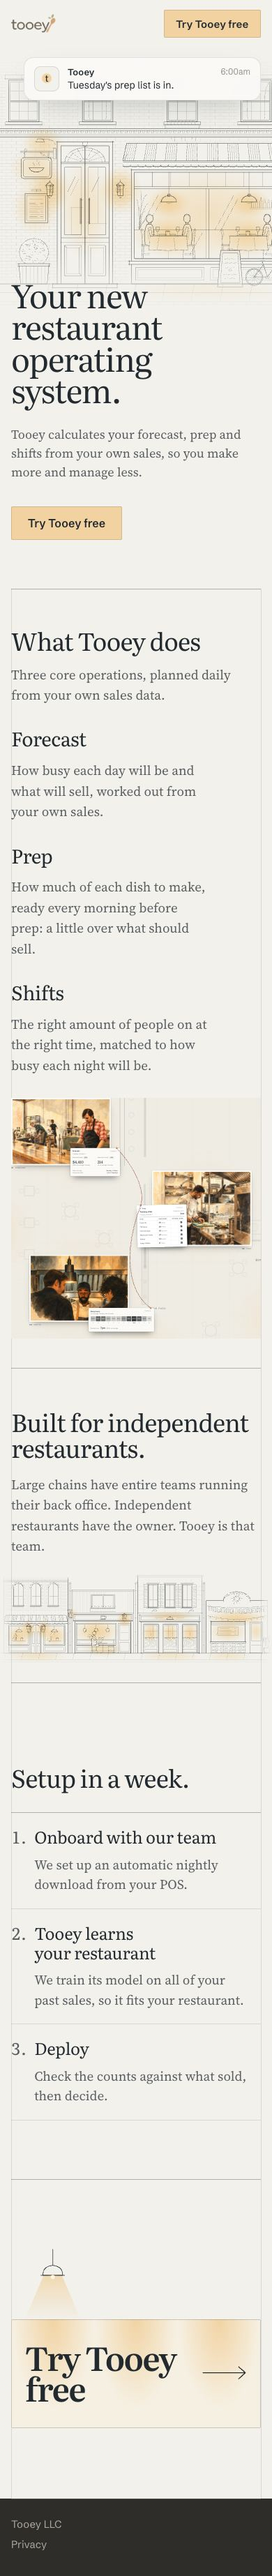
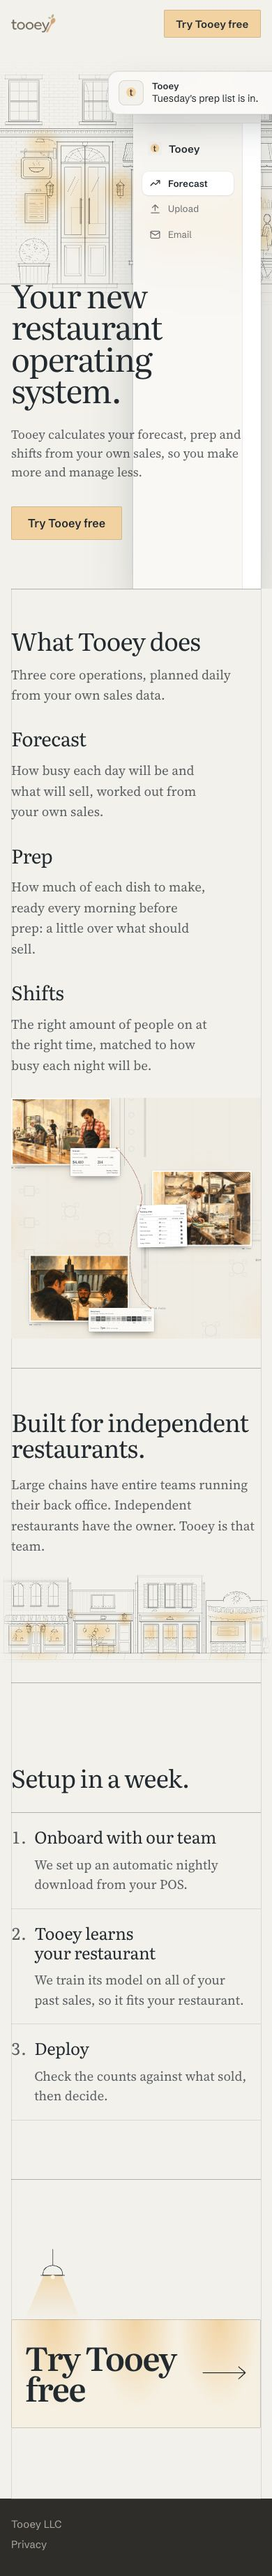
Gallery: only 41 onward, newest first in one grid, desktop only; rounds seventeen to nineteen labelled; 49 reshot

Changed region(s): [[0.4, 0.0311, 1.0, 0.218], [0.2769, 0.0311, 0.3385, 0.0623]]

diff --git a/explorations/index.html b/explorations/index.html
@@ -66,11 +66,6 @@ button { font: inherit; color: inherit; }
 }
 .btn:hover { background: var(--hover); }
 .btn[aria-disabled="true"] { opacity: .4; pointer-events: none; }
-.seg { display: inline-flex; border: 1px solid var(--line); border-radius: 8px; background: var(--panel); padding: 2px; }
-.seg button {
-  border: 0; background: none; height: 26px; padding: 0 10px; border-radius: 6px; cursor: pointer; font-size: 13px; color: var(--muted);
-}
-.seg button[aria-pressed="true"] { background: var(--ink); color: var(--bg); }
 
 /* ---------- overview ---------- */
 .overview { max-width: 1280px; margin: 0 auto; padding: 48px 20px 80px; }
@@ -79,7 +74,7 @@ button { font: inherit; color: inherit; }
 .intro p { margin: 0; max-width: 62ch; color: var(--muted); }
 .intro p + p { margin-top: 8px; }
 .intro code { font: 13px ui-monospace, SFMono-Regular, Menlo, monospace; background: var(--hover); padding: 1px 5px; border-radius: 4px; color: var(--ink); }
-.grid { list-style: none; margin: 0; padding: 0; display: grid; grid-template-columns: repeat(auto-fill, minmax(360px, 1fr)); gap: 28px 24px; }
+.grid { list-style: none; margin: 0; padding: 0; display: grid; grid-template-columns: repeat(auto-fill, minmax(360px, 1fr)); gap: 40px 28px; }
 .card { display: flex; flex-direction: column; min-width: 0; }
 .thumb {
   position: relative; display: block; border-radius: 12px; overflow: hidden;
@@ -88,24 +83,12 @@ button { font: inherit; color: inherit; }
 }
 .thumb img { display: block; width: 100%; height: 100%; object-fit: cover; object-position: top center; transition: transform .4s ease; }
 .thumb:hover img { transform: scale(1.015); }
-.thumb .phone {
-  position: absolute; right: 14px; bottom: -14%; width: 21%;
-  aspect-ratio: 390 / 844; border-radius: 10px; overflow: hidden;
-  border: 3px solid #111; background: #111; box-shadow: 0 8px 24px rgba(0,0,0,.25);
-}
-.thumb .phone img { object-fit: cover; }
-[data-mode="phone"] .grid .thumb { aspect-ratio: 16 / 10; display: flex; justify-content: center; align-items: flex-start; padding-top: 18px; }
-[data-mode="phone"] .grid .thumb > img { display: none; }
-[data-mode="phone"] .grid .thumb .phone { position: static; width: 44%; height: auto; }
 .meta { padding: 14px 2px 0; }
-.round { margin: 0 0 48px; }
-.round > h2 { font-size: 20px; font-weight: 600; letter-spacing: -0.01em; margin: 0 0 4px; }
-.round > p { margin: 0 0 20px; color: var(--muted); max-width: 70ch; }
 .meta h2 { font-size: 17px; margin: 0; font-weight: 600; letter-spacing: -0.01em; display: flex; gap: 8px; align-items: baseline; }
 .meta p { margin: 4px 0 0; color: var(--muted); font-size: 14px; }
 .meta .tags { font-size: 13px; color: var(--faint); }
+.meta .eyebrow { margin: 0 0 4px; font-size: 12px; font-weight: 600; letter-spacing: .04em; text-transform: uppercase; color: var(--faint); }
 .meta .row { display: flex; gap: 8px; margin-top: 12px; flex-wrap: wrap; }
-.card.original .thumb { box-shadow: none; border-style: dashed; }
 
 /* ---------- detail ---------- */
 .detail { display: grid; grid-template-columns: minmax(0, 1fr) 380px; height: calc(100vh - 56px); height: calc(100dvh - 56px); }
@@ -115,7 +98,6 @@ button { font: inherit; color: inherit; }
 .stage { position: relative; flex: 1; min-height: 0; background: var(--stage); overflow: hidden; display: flex; align-items: flex-start; justify-content: center; gap: 24px; padding: 20px; }
 .frame { position: relative; flex: none; background: #fff; border-radius: 10px; overflow: hidden; box-shadow: var(--shadow); border: 1px solid var(--line); }
 .frame iframe { border: 0; display: block; transform-origin: 0 0; background: #fff; }
-.frame.phone { border-radius: 28px; border: 8px solid #111; }
 .frame .label { position: absolute; left: 0; right: 0; bottom: 100%; }
 .info { min-height: 0; overflow-y: auto; padding: 24px 24px 48px; background: var(--panel); }
 .info h3 { font-size: 12px; text-transform: uppercase; letter-spacing: .06em; color: var(--faint); margin: 26px 0 8px; font-weight: 600; }
@@ -163,30 +145,20 @@ button { font: inherit; color: inherit; }
   <div class="intro">
     <div>
       <h1>Directions for the Tooey site</h1>
-      <p>Forty-three explorations in thirteen rounds, newest first. Each was built by its own agent. The current site comes first, for reference.</p>
-    </div>
-    <div class="seg" role="group" aria-label="Thumbnails">
-      <button type="button" data-thumb="desktop" aria-pressed="true">Desktop</button>
-      <button type="button" data-thumb="phone" aria-pressed="false">Phone</button>
+      <p>Explorations 41 to 49, one per round, newest first. Each round builds on the one before. Reviewed on desktop.</p>
     </div>
   </div>
-  <div id="grid" data-mode="desktop"></div>
+  <div id="grid"></div>
 </main>
 
 <main class="detail" id="detail" hidden>
   <div class="stage-wrap">
     <div class="toolbar">
       <h2 id="dTitle"></h2>
-      <div class="seg" role="group" aria-label="Preview size">
-        <button type="button" data-view="both" aria-pressed="true">Both</button>
-        <button type="button" data-view="desktop" aria-pressed="false">Desktop</button>
-        <button type="button" data-view="phone" aria-pressed="false">Phone</button>
-      </div>
       <a class="btn" id="dOpen" target="_blank" rel="noopener">Open site ↗</a>
     </div>
     <div class="stage" id="stage">
       <div class="frame desktop" id="fDesk"><iframe id="iDesk" title="Desktop preview" width="1440" height="900" loading="lazy"></iframe></div>
-      <div class="frame phone" id="fPhone"><iframe id="iPhone" title="Phone preview" width="390" height="844" loading="lazy"></iframe></div>
     </div>
   </div>
   <aside class="info" id="info" aria-live="polite"></aside>
@@ -195,25 +167,24 @@ button { font: inherit; color: inherit; }
 <script src="_gallery/data.js"></script>
 <script>
 (function () {
-  var sites = window.EXPLORATIONS || [];
+  // 41 onward, newest first; the arrows follow the same order
+  var sites = (window.EXPLORATIONS || []).filter(function (s) { return +s.num > 40; }).reverse();
   var grid = document.getElementById('grid');
   var overview = document.getElementById('overview');
   var detail = document.getElementById('detail');
   var pager = document.getElementById('pager');
   var allLink = document.getElementById('allLink');
-  var view = 'both';
-  try { view = localStorage.getItem('tooey-gallery-view') || 'both'; } catch (e) {}
 
   function esc(s) { return String(s).replace(/[&<>"]/g, function (c) { return { '&': '&amp;', '<': '&lt;', '>': '&gt;', '"': '&quot;' }[c]; }); }
   function shot(id, kind) { return '_gallery/shots/' + id + '-' + kind + '.jpg'; }
 
-  function card(s) {
-    return '<li class="card' + (s.id === '00-original' ? ' original' : '') + '">' +
+  function card(s, round, roundText) {
+    return '<li class="card">' +
       '<a class="thumb" href="#' + s.id + '" aria-label="Review ' + esc(s.name) + '">' +
         '<img src="' + shot(s.id, 'desktop') + '" alt="" loading="lazy">' +
-        '<span class="phone"><img src="' + shot(s.id, 'phone') + '" alt="" loading="lazy"></span>' +
       '</a>' +
       '<div class="meta">' +
+        (round ? '<p class="eyebrow" title="' + esc(roundText) + '">Round ' + esc(s.round) + ' \u00b7 ' + esc(round) + '</p>' : '') +
         '<h2><span class="num">' + esc(s.num) + '</span>' + esc(s.name) + '</h2>' +
         '<p>' + esc(s.line) + '</p>' +
         (s.motion ? '<p class="tags">' + esc(s.motion) + (s.words ? ' \u00b7 ' + s.words + ' words' : '') + '</p>' : '') +
@@ -222,36 +193,23 @@ button { font: inherit; color: inherit; }
       '</div></li>';
   }
   var ROUNDS = [
-    { n: 0, title: 'Today', text: '' },
+    { n: 19, title: 'Round nineteen: drawn, over a floor plan', text: '48 drawn instead of photographed, over the restaurant\'s floor plan, the words on glass, and the console window in the hero.' },
+    { n: 18, title: 'Round eighteen: one board, one thread', text: 'Three scenes on one board, joined by a thread the camera follows from Forecast to Prep to Shifts.' },
+    { n: 17, title: 'Round seventeen: real photographs', text: 'What Tooey does as one night in five photographs, each carrying a card from the real console.' },
     { n: 16, title: 'Round sixteen: the product is the picture', text: '44 with the same words, pictured with Tooey\'s own windows and a camera that glides across them.' },
     { n: 15, title: 'Round fifteen: free art from a photo', text: 'One free photo treated in code three ways, each animated, and a scroll camera.' },
     { n: 14, title: 'Round fourteen: back to 35', text: '35 with a typed headline, a smooth header, a clean hero and a shorter pin.' },
     { n: 13, title: 'Round thirteen: the day tells what Tooey does', text: '42 revised: slower, the three notes inside the day, a server, a clear header.' },
     { n: 12, title: 'Round twelve: one day, on scroll', text: '40 revised: scroll-driven, faster, with morphs, real food and darker night.' },
-    { n: 11, title: 'Round eleven: 39, made grand', text: 'Full-bleed, a moving camera, and a receipt, meat and dish instead of the string. 40 runs through a day; 41 is the relay as described.' },
-    { n: 10, title: 'Round ten: the string hero', text: 'Two looping heroes for 35: a thread connecting the POS, the fridge and the chef, with a VHS glitch headline.' },
-    { n: 9, title: 'Round nine: 34, revised', text: 'Your changes to 34 (35), then two operating-system heroes: shop windows (36) and boot up (37).' },
-    { n: 8, title: 'Round eight: building on 31', text: 'Three combinations on 31’s light look, each richer and better animated: a walk-through, a living sheet, a lit room.' },
-    { n: 7, title: 'Round seven: one system, dark and light', text: 'Built on the Light only treatment you chose from the samples page (explorations/_samples/): one on basalt from the 3D renders, one on porcelain from the drawn rooms.' },
-    { n: 6, title: 'Round six: walk through the restaurant', text: 'Your idea, four ways: outside, the doors, a table, behind the POS, the kitchen, the prep sheet. Drawn and lit as part of the page, with scroll moving you through it. Desktop reviewed.' },
-    { n: 5, title: 'Round five: 21’s colours, a real restaurant', text: 'Rendered restaurants in 3D. Tooey shown as finished, every example dish gets a count, and nothing crucial takes over five seconds. Under 200 words.' },
-    { n: 4, title: 'Round four: a direct site, creative motion inside', text: 'Plain company sites about Tooey, with the creativity in the animations rather than a whole-page idea. Under 200 words.' },
-    { n: 3, title: 'Round three: the operator’s back end', text: 'Prep, shifts and growth, with more motion and a stronger voice. Built from what worked in 02, 04, 06 and 09. Under 180 words.' },
-    { n: 2, title: 'Round two: anti-cliché, few words', text: 'Each rebuilt from scratch with one signature motion piece. Under 150 words.' }
+    { n: 11, title: 'Round eleven: the relay', text: 'A receipt, meat and a dish passed along instead of a string, with a moving camera.' }
   ];
-  grid.innerHTML = ROUNDS.map(function (r) {
-    var items = sites.filter(function (s) { return (s.round || 0) === r.n; });
-    if (!items.length) return '';
-    return '<section class="round">' + (r.n ? '<h2>' + esc(r.title) + '</h2><p>' + esc(r.text) + '</p>' : '') +
-      '<ol class="grid">' + items.map(card).join('') + '</ol></section>';
-  }).join('');
+  var byRound = {};
+  ROUNDS.forEach(function (r) { byRound[r.n] = r; });
+  grid.innerHTML = '<ol class="grid">' + sites.map(function (s) {
+    var r = byRound[s.round];
+    return card(s, r ? r.title.replace(/^Round [a-z]+: /, '') : '', r ? r.text : '');
+  }).join('') + '</ol>';
 
-  document.querySelectorAll('[data-thumb]').forEach(function (b) {
-    b.addEventListener('click', function () {
-      grid.dataset.mode = b.dataset.thumb;
-      document.querySelectorAll('[data-thumb]').forEach(function (o) { o.setAttribute('aria-pressed', o === b ? 'true' : 'false'); });
-    });
-  });
 
   function list(items) { return items && items.length ? '<ul>' + items.map(function (i) { return '<li>' + esc(i) + '</li>'; }).join('') + '</ul>' : '<p class="muted">Pending review.</p>'; }
 
@@ -262,19 +220,16 @@ button { font: inherit; color: inherit; }
     if (s.concept) html += '<h3>What it became</h3><p>' + esc(s.concept) + '</p>';
     if (s.look) html += '<h3>Look</h3><p>' + esc(s.look) + '</p>';
     if (s.motion) html += '<h3>Motion</h3><p>' + esc(s.motion) + (s.words ? ', ' + s.words + ' words on the home page' : '') + '</p>';
-    if (s.id !== '00-original') {
-      html += '<h3>Strengths</h3>' + list(s.strengths);
-      html += '<h3>Weaknesses</h3>' + list(s.weaknesses);
-    }
+    html += '<h3>Strengths</h3>' + list(s.strengths);
+    html += '<h3>Weaknesses</h3>' + list(s.weaknesses);
     if (s.ask) html += '<h3>For Rex to decide</h3><p>' + esc(s.ask) + '</p>';
     if (s.pages && s.pages.length) {
       html += '<h3>Pages</h3><p class="links">' + s.pages.map(function (p) {
         return '<a class="btn" href="' + p.href + '" target="_blank" rel="noopener">' + esc(p.label) + ' ↗</a>';
       }).join('') + '</p>';
     }
-    html += '<h3>Full-page screenshots</h3><p class="links">' +
-      '<a class="btn" href="' + shot(s.id, 'desktop-full') + '" target="_blank" rel="noopener">Desktop ↗</a>' +
-      '<a class="btn" href="' + shot(s.id, 'phone-full') + '" target="_blank" rel="noopener">Phone ↗</a></p>';
+    html += '<h3>Full-page screenshot</h3><p class="links">' +
+      '<a class="btn" href="' + shot(s.id, 'desktop-full') + '" target="_blank" rel="noopener">Desktop ↗</a></p>';
     if (s.notes) html += '<h3>Its own notes</h3><p><a href="' + s.notes + '" target="_blank" rel="noopener">NOTES.md</a>' + (s.stack ? ' <span class="muted">· ' + esc(s.stack) + '</span>' : '') + '</p>';
     document.getElementById('info').innerHTML = html;
   }
@@ -287,7 +242,6 @@ button { font: inherit; color: inherit; }
       overview.hidden = false; detail.hidden = true; pager.hidden = true; allLink.hidden = true;
       document.title = 'Tooey · Directions';
       document.getElementById('iDesk').removeAttribute('src');
-      document.getElementById('iPhone').removeAttribute('src');
       return;
     }
     var s = sites[i];
@@ -298,48 +252,25 @@ button { font: inherit; color: inherit; }
     document.getElementById('dOpen').href = s.href;
     document.getElementById('prev').href = '#' + sites[(i - 1 + sites.length) % sites.length].id;
     document.getElementById('next').href = '#' + sites[(i + 1) % sites.length].id;
-    var d = document.getElementById('iDesk'), p = document.getElementById('iPhone');
+    var d = document.getElementById('iDesk');
     if (d.getAttribute('src') !== s.href) d.src = s.href;
-    if (p.getAttribute('src') !== s.href) p.src = s.href;
     renderInfo(s);
     window.scrollTo(0, 0);
     layout();
   }
 
-  function setView(v) {
-    view = v;
-    try { localStorage.setItem('tooey-gallery-view', v); } catch (e) {}
-    document.querySelectorAll('[data-view]').forEach(function (b) { b.setAttribute('aria-pressed', b.dataset.view === v ? 'true' : 'false'); });
-    layout();
-  }
-  document.querySelectorAll('[data-view]').forEach(function (b) { b.addEventListener('click', function () { setView(b.dataset.view); }); });
-
   function layout() {
     if (!current) return;
     var stage = document.getElementById('stage');
-    var fD = document.getElementById('fDesk'), fP = document.getElementById('fPhone');
-    var iD = document.getElementById('iDesk'), iP = document.getElementById('iPhone');
-    var pad = window.innerWidth <= 640 ? 24 : 40, gap = 24;
+    var fD = document.getElementById('fDesk'), iD = document.getElementById('iDesk');
+    var pad = window.innerWidth <= 640 ? 24 : 40;
     var W = stage.clientWidth - pad, H = stage.clientHeight - pad;
-    var v = view;
-    if (v === 'both' && W < 900) v = W < 600 ? 'phone' : 'desktop';
-    fD.hidden = v === 'phone'; fP.hidden = v === 'desktop';
-
-    var pScale = Math.min(1, (H - 16) / 844, (W - 16) / 390);
-    if (v !== 'desktop') {
-      iP.style.transform = 'scale(' + pScale + ')';
-      fP.style.width = Math.round(390 * pScale) + 16 + 'px';
-      fP.style.height = Math.round(844 * pScale) + 16 + 'px';
-    }
-    if (v !== 'phone') {
-      var avail = v === 'both' ? W - (390 * pScale + 16) - gap : W;
-      var dScale = Math.min(1, avail / 1440);
-      var dH = Math.max(400, H / dScale);
-      iD.style.height = dH + 'px';
-      iD.style.transform = 'scale(' + dScale + ')';
-      fD.style.width = Math.round(1440 * dScale) + 'px';
-      fD.style.height = Math.round(dH * dScale) + 'px';
-    }
+    var dScale = Math.min(1, W / 1440);
+    var dH = Math.max(400, H / dScale);
+    iD.style.height = dH + 'px';
+    iD.style.transform = 'scale(' + dScale + ')';
+    fD.style.width = Math.round(1440 * dScale) + 'px';
+    fD.style.height = Math.round(dH * dScale) + 'px';
   }
   window.addEventListener('resize', layout);
 
@@ -352,7 +283,6 @@ button { font: inherit; color: inherit; }
 
   function route() { show(decodeURIComponent(location.hash.slice(1))); }
   window.addEventListener('hashchange', route);
-  setView(view);
   route();
 })();
 </script>

diff --git a/explorations/_gallery/data.js b/explorations/_gallery/data.js
@@ -618,11 +618,11 @@ window.EXPLORATIONS = [
   },
   {
     id: '49-ink', num: '49', name: 'Ink', round: 19,
-    href: '49-ink/', notes: '49-ink/NOTES.md', words: 369, motion: 'Typed headline; a camera follows a thread over a floor plan, scenes sliding under a glass panel',
+    href: '49-ink/', notes: '49-ink/NOTES.md', words: 369, motion: 'Typed headline over the console window; a camera follows a thread over a floor plan, scenes sliding under a glass panel',
     line: '48 with the same camera and thread, where the scenes are drawn, the board is the restaurant\'s floor plan, and the words float on glass over it.',
     brief: 'Round nineteen: Rex found 48\'s finish still read as a photograph and asked for a drawn but realistic option, a background that does more, and the words overlaid so things pass under them, Apple-like.',
     headline: 'Your new restaurant operating system.',
-    concept: 'The board is one restaurant\'s floor plan, each scene pinned where it happens (counter, kitchen, pass). The plan moves a little slower than the scenes, for depth. The words sit on a frosted panel; the camera frames each scene in the room left of it.',
+    concept: 'The board is one restaurant\'s floor plan, each scene pinned where it happens (counter, kitchen, pass). The plan moves a little slower than the scenes, for depth. The words sit on a frosted panel; the camera frames each scene in the room left of it. The hero is the console\'s own window, its Forecast page over the street, with the 6am notification on its corner.',
     look: '48\'s page, with ink and watercolour illustrations made from the stand-in photographs, a faint architect\'s plan with warm lamp pools behind them, and a frosted glass panel whose current step is a raised white tile.',
     strengths: ['Reads as drawn, keeps real rooms and people.', 'The floor plan gives the camera a place to move through.', 'The glass panel lets the board run full width and pass under the words.'],
     weaknesses: ['The illustrations are AI-generated, from three different restaurants.', 'The floor plan is invented.', 'Shifts still shows Busy hours.'],
